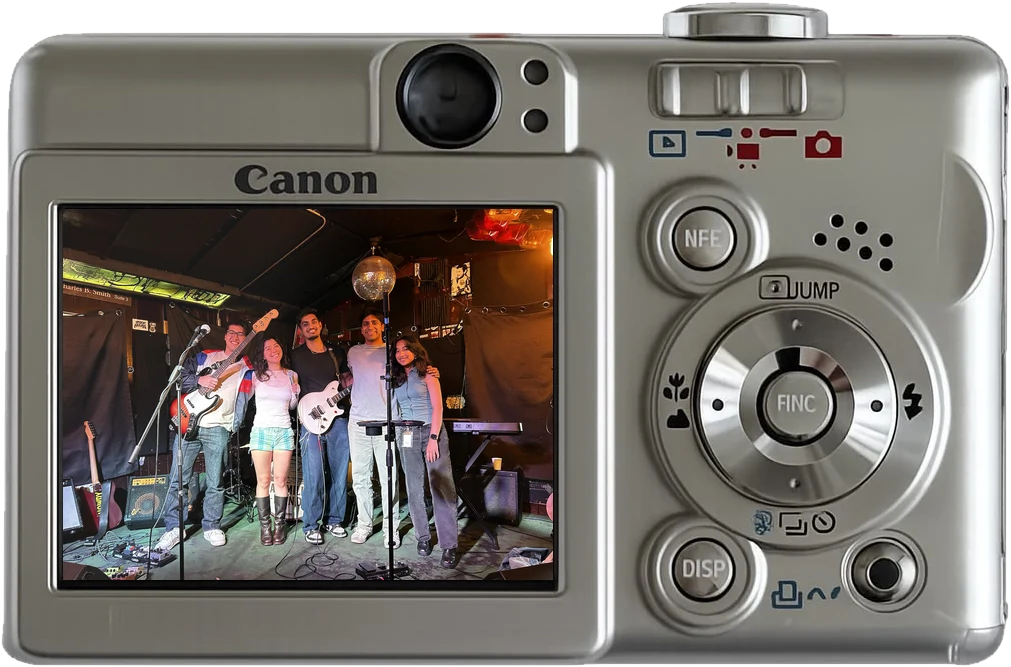
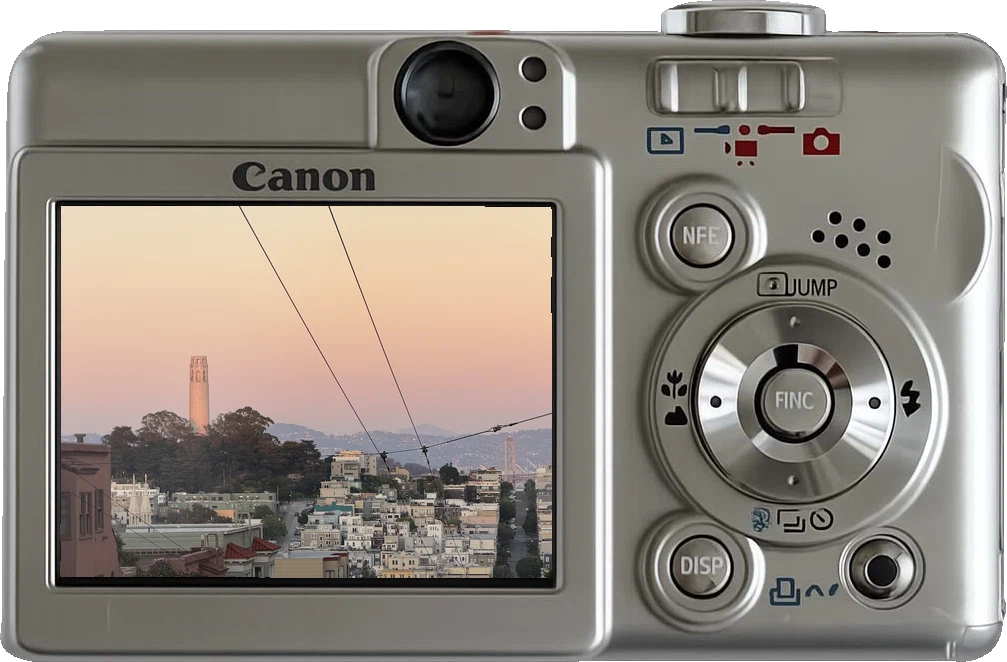
About: SF sunset in camera, new film frame with band photo

diff --git a/about/index.html b/about/index.html
@@ -40,12 +40,12 @@
         <p class="about__clock">Off the clock, you can find me singing with my band, playing violin with my trio, or running through Golden Gate Park!</p>
         <div class="about__snaps">
           <figure class="about__camera">
-            <img src="../assets/img/about-camera.webp" width="1011" height="667" alt="A silver Canon camera showing a photo of Symphony and her band on stage">
-            <figcaption class="about__note about__note--band">my band! <span aria-hidden="true">♪ ♫</span></figcaption>
+            <img src="../assets/img/about-camera.webp" width="1007" height="662" alt="A silver Canon camera showing a sunset over San Francisco with Coit Tower">
+            <figcaption class="about__note about__note--cam">golden hour in SF <span aria-hidden="true">♡</span></figcaption>
           </figure>
           <figure class="about__film">
             <span class="tape tape--yellow about__film-tape" aria-hidden="true"></span>
-            <img src="../assets/img/about-film.webp" width="825" height="823" alt="A red film strip with photos of Symphony's trio holding their violin and cello, a sunset run selfie, the Golden Gate Bridge at night, and a scuba diving trip">
+            <img src="../assets/img/about-film.webp" width="822" height="900" alt="A red film strip with photos of Symphony's trio holding their violin and cello, a sunset run selfie, her band on stage, and a scuba diving trip">
           </figure>
         </div>
       </section>

diff --git a/css/sheet.css b/css/sheet.css
@@ -534,7 +534,7 @@ body.sheet-page {
 }
 .about__photo .tape { font-size: 15px; }
 
-/* off the clock: band camera + red film of photos */
+/* off the clock: SF camera + red film of photos */
 .about__fun {
   display: grid;
   justify-items: center;
@@ -566,7 +566,7 @@ body.sheet-page {
   font: 400 clamp(1.9rem, 3cqw, 2.5rem)/1 var(--pen);
   color: var(--cherry);
 }
-.about__note--band { left: 6%; bottom: -1.3em; transform: rotate(-3deg); }
+.about__note--cam { left: 6%; bottom: -1.3em; transform: rotate(-3deg); }
 .about__note span { font-size: .8em; }
 .about__links { display: flex; flex-wrap: wrap; gap: .4em 1.6em; }
 .about__links a { color: #1c1c1c; text-decoration: underline; text-decoration-color: var(--cherry); text-underline-offset: .25em; }
